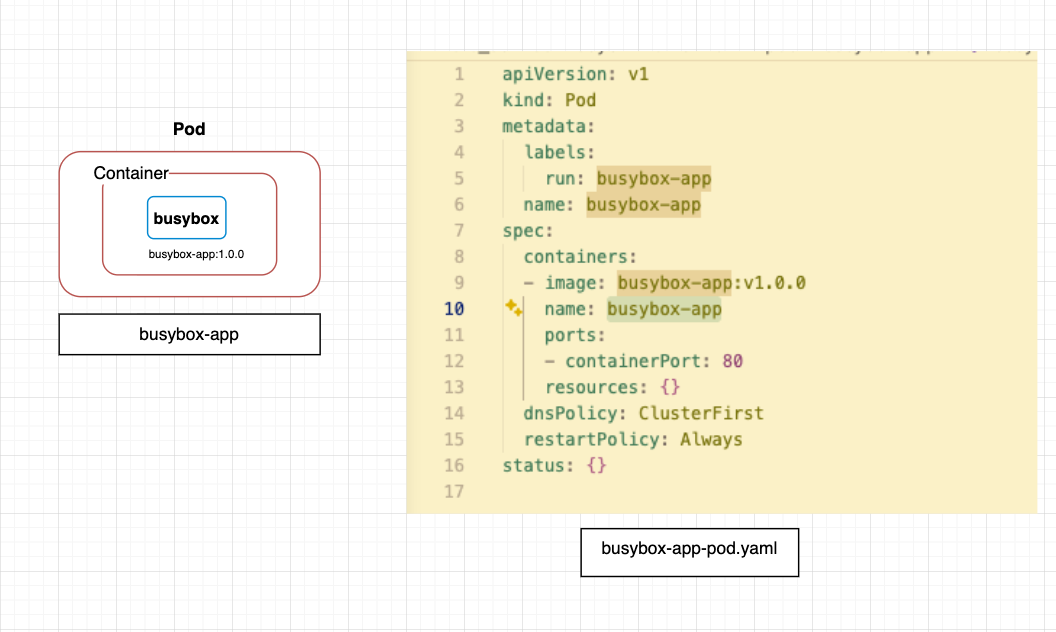
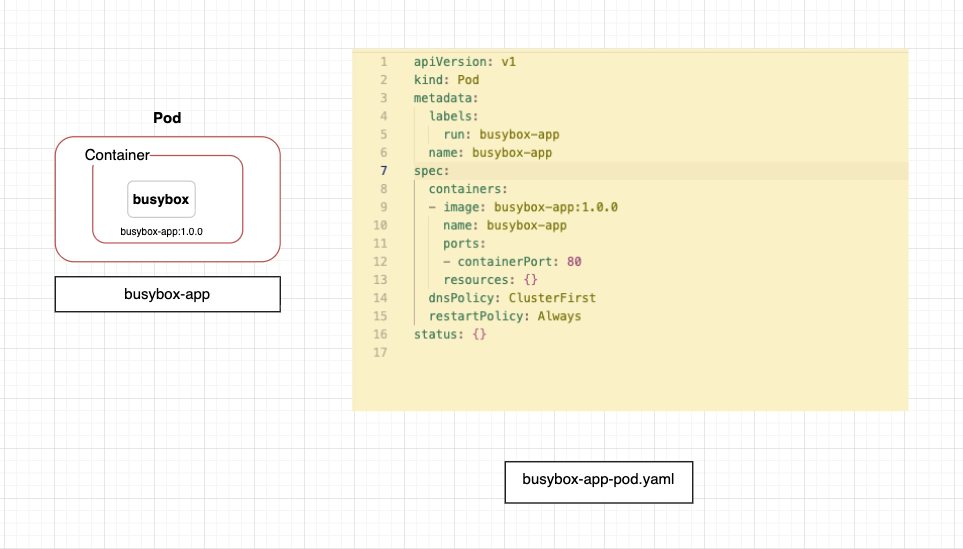
image

Changed region(s): [[0.3427, 0.0619, 0.9969, 0.929], [0.0312, 0.1858, 0.3115, 0.5883], [0.0312, 0.3406, 0.0623, 0.3716]]

diff --git a/day3/home-work/pod/busybox-app/README.md b/day3/home-work/pod/busybox-app/README.md
@@ -1,4 +1,4 @@
-# 1  
+
 ## build image
 
 ```
